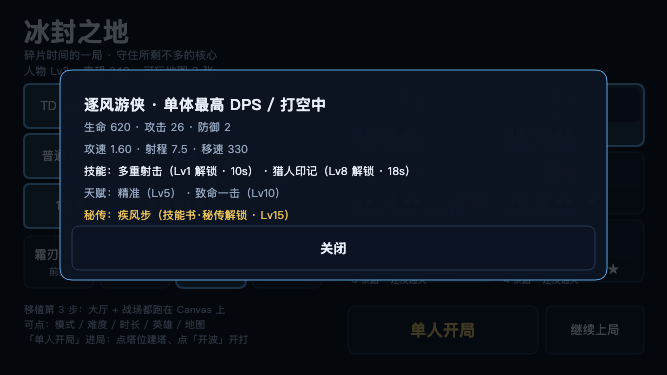
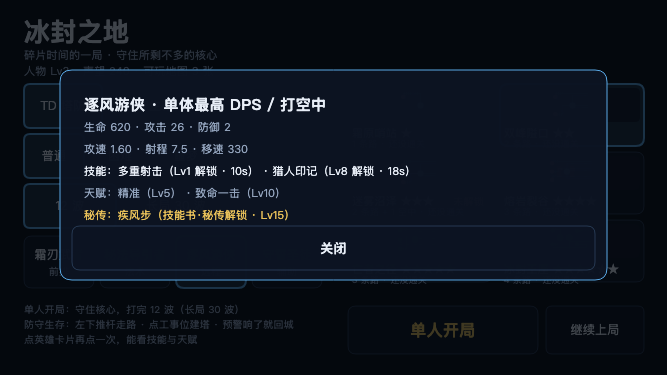
fix(minigame): 出门的文案——清掉「移植第 3 步」与提示里的内部 id
换了个尺子量「玩家会看到什么字」，抓到两处只有自己人看得懂的：

- 大厅提示前两行是开发进度（「移植第 3 步：大厅 + 战场都跑在 Canvas 上」「可点：模式/难度/…」），
  换成三行玩法提示（12 波 / 防守怎么玩 / 英雄卡片看详情）；开始按钮上残留的「（第 4 步接入）」也去掉
  （canStart 这道闸留着，文案中性）
- 提示里出现内部 id：「建了 tw_arrow」「优先级：front」→「建了 箭塔」「优先级：最靠前」
  （名字都从 TOWERS / PRIORITY_LABEL / FORTS 取，与面板按钮同一份）

有意思的是：有一条旧用例正好钉着错的字（它断言大厅要出现「第 4 步」，那是当初没接上时的诚实写法），
接上之后没跟着改，反而把开发进度钉在界面上——这条现在掉头成「整帧不许出现开发进度文案」。
用例 +1（提示文案与 id 白名单）与 1 条掉头；两条变异反证。
npm test 332 → 333；minigame 6 条全过；主包 18 模块 / 395.0 KB。

Changed region(s): [[0.03, 0.792, 0.4498, 0.9387]]

diff --git a/src/minigame/game.js b/src/minigame/game.js
@@ -4,7 +4,7 @@
 // `index.html` + `styles.css` + `ui.js` 那套 DOM+CSS。这一步做的是把**平台差异**与**打包**解决掉，
 // 并把不依赖 DOM 的那一大半（内核、数据表、存档、联机协议、平台适配）先在小游戏里跑通。
 // 界面换 Canvas 是第 3 步，见 docs/minigame-port.md。
-import { DEFENSE_MAPS, MAPS, TICK_STEP, WAVES, normalizeChoice } from '../data.js';
+import { DEFENSE_MAPS, FORTS, MAPS, TICK_STEP, TOWERS, WAVES, normalizeChoice } from '../data.js';
 import {
   buildTower, buyItem, castSkill, craftEquipment, createMatch, describe as describeMatch, equipItem,
   enhanceItem, potionCount, repairTower, reviveNow, sellItem, sellTower, setPriority, skillLevel,
@@ -35,7 +35,7 @@ import {
 } from './defense-screen.js';
 import { applyLobbyAction, drawLobby, hitTestLobby, layoutLobby } from './lobby.js';
 import {
-  DESIGN, drawBattleHud, drawResult, drawSheet, hitTestBattle, hitTestSheet,
+  DESIGN, PRIORITY_LABEL, drawBattleHud, drawResult, drawSheet, hitTestBattle, hitTestSheet,
   layoutBattle, layoutResult, layoutSheet, skillKeys,
 } from './battle.js';
 
@@ -457,7 +457,8 @@ export function startMinigame({ requestAnimationFrame: raf = globalThis.requestA
       case 'build': {
         const ok = buildTower(b.m, action.slot, action.towerId, 0);
         if (ok) b.tutorial?.onTowerBuilt(b.m.time);   // 引导第一步/第二步靠「真的建了塔」推进
-        note(b, ok ? `建了 ${action.towerId}` : '金币不足或这里不能建');
+        // 提示里写**玩家认得的名字**，不是 `tw_arrow` 这种内部 id（出门的版本里不该出现 id）
+        note(b, ok ? `建了 ${TOWERS[action.towerId]?.name ?? '塔'}` : '金币不足或这里不能建');
         if (ok) b.ui = { selectedSlot: null, panelSlot: action.slot, sellArmed: false };
         return action;
       }
@@ -476,7 +477,7 @@ export function startMinigame({ requestAnimationFrame: raf = globalThis.requestA
       }
       case 'priority': {
         const ok = setPriority(b.m, action.slot, action.value);
-        note(b, ok ? `优先级：${action.value}` : '设置失败');
+        note(b, ok ? `优先级：${PRIORITY_LABEL[action.value] ?? action.value}` : '设置失败');
         return action;
       }
       case 'repair': {
@@ -508,7 +509,8 @@ export function startMinigame({ requestAnimationFrame: raf = globalThis.requestA
       case 'buildFort': {
         const slot = b.fortSlot;
         const ok = slot == null ? false : buildFort(b.m, slot, action.fortId);
-        note(b, ok ? '工事已建' : (slot == null ? '先在战场上点一个工事位（‘修’字）' : '金币不足或这里已经建过'), 2);
+        note(b, ok ? `建了 ${FORTS[action.fortId]?.name ?? '工事'}`
+          : (slot == null ? '先在战场上点一个工事位（‘修’字）' : '金币不足或这里已经建过'), 2);
         if (ok) b.fortSlot = null;
         if (ok || slot == null) b.ui = { selectedSlot: null, panelSlot: null, sellArmed: false };
         return action;

diff --git a/src/minigame/lobby.js b/src/minigame/lobby.js
@@ -117,7 +117,9 @@ export function layoutLobby(w, h, model = {}) {
   // 有存档时右边再挤一个「继续上局」（§10.3：杀进程重开进度不丢）——两个都 ≥44 高
   const startW = model.canContinue ? 190 : 296;
   raw.push(btn('start', 348, 306, startW, 48,
-    model.canStart ? '单人开局' : '单人开局（第 4 步接入）', { type: 'start' }, { disabled: !model.canStart }));
+    // 按钮上**不写开发进度**（「第 4 步接入」那种）：出门的版本里玩家只该看到玩法本身。
+    // `canStart` 这个闸还留着（未来哪个模式没接好时灰掉它），但文案是中性的。
+    '单人开局', { type: 'start' }, { disabled: !model.canStart }));
   if (model.canContinue) {
     raw.push(btn('continue', 546, 306, 98, 48, model.continueLabel ?? '继续上局', { type: 'continue' }));
   }
@@ -185,9 +187,13 @@ const text = (ctx, str, x, y, { size = 12, color = COLORS.ink, weight = '', alig
 };
 
 export const DEFAULT_HINT = [
-  '移植第 3 步：大厅 + 战场都跑在 Canvas 上',
-  '可点：模式 / 难度 / 时长 / 英雄 / 地图',
-  '「单人开局」进局：点塔位建塔、点「开波」开打',
+  /**
+   * 这三行是**给玩家看的**，不是开发进度（原先第一行写着「移植第 3 步」，那是我们自己看的）。
+   * 每行都要放得下大厅那个提示框（316 宽 / 10px → 约 31 个汉字，有用例盯着别溢出）。
+   */
+  '单人开局：守住核心，打完 12 波（长局 30 波）',
+  '防守生存：左下推杆走路 · 点工事位建塔 · 预警响了就回城',
+  '点英雄卡片再点一次，能看技能与天赋',
 ];
 
 /** 画一帧（纯绘制，不改模型） */
@@ -336,7 +342,8 @@ export function applyLobbyAction(model, action, { unlocked = [], lockedReason = 
     }
     case 'start': {
       if (!next.canStart) {
-        next.hint = '战斗场景还没接上：内核已经能在小游戏里跑，渲染还没挂上去。';
+        // 中性文案（这扇门现在不会关：两种模式都接了；留着是给未来没接好的模式用）
+        next.hint = '这个模式现在开不了，先玩另一个。';
         return next;
       }
       next.started = true;

diff --git a/docs/STATUS.md b/docs/STATUS.md
@@ -21,7 +21,7 @@
 ## 2. 一条命令复跑全部验证
 
 ```bash
-npm test        # 332 项：数值 / 波次 / 经济 / 装备 / 天赋 / 技能细节 / 存档 / 联机 / 快速匹配 / 触觉反馈 / 摇杆指令 / 溅射衰减 / 药品计数 / 解锁来源与流水 / 野外区分区 / 亚格渲染 / 克制提示 / 局内资源不外流 / 仇恨 1 秒 / 野外区文案 / 战绩分模式 / 面板可见性 / 浮层收起 / 房间码提示 / 空房保留窗口 / 联机指令出口（handler 逐个查）/ 畸形指令与限速 / 克制表与枚举对齐 / 联机镜像不落本地存档（§113） / 大厅按模式给选项（§115：防守没有「局内时长」） / 低特效档真的关脉冲（§116） / 怪物光环按半径结算（§117） / Boss 光环按地图开关（§118） / 逻辑帧步长只有一个定义（§119） / 协议版本两侧校验（§120） / 畸形 URL 参数不崩服务端（§121） / 别人的名字不执行（§122） / 名字长度截断（§122） / 畸形指令值不崩服务端（§123） / 房间码不可枚举（§124） / 名单不广播 uid（§125） / 调试钩子默认关（§126）与「只在本地生效」（§197）/  免费期无付费入口（§128） / 联机结算面板也写「声望 +N」（§130） / 通关转无尽的出口（§131） / 精研技能书真的 +1 级（§132） / 狂战药剂真的持续 30 秒（§133） / 防守模式 buff 生效与疾风步移速（§134） / 两模式英雄 tick 职责对齐（§135） / 亡语分裂在防守里也生效（§136） / 防守的怪也吃减速眩晕 DoT（§137） / 防守内容不许带未实现能力（§138） / 「继续上局」只在**真读得出来**时出现（§139 + §204） /  **疾行药剂在两个模式都生效（§144） / **回城冷却进存档且真的走满 30 秒（§147） / **联机修塔真的生效、TD 专属指令在防守房被拒（§148） / **联机结算的伤害占比不为空、防守占比条写中文名（§149） / **结算面板的掉落栏写中文名（§151） / **快速匹配排队时写明「在等」（§152） / **新手引导的门槛与「重看」（§153） / **文案里的数字与数据表对账（§155） / ****临时端口串门与僵尸根因（§157）** / **4★-6★ 图能从大厅选到（§158） / **真机视口下大厅动作行粘底（§159） / **结算面板出口也粘底（§160） / **真机视口下防守 HUD 紧凑排布（§161） / **真机视口下引导条不压操作行（§162） / **联机长局镜像换成 30 波表（§163）/**§130 偶发红改成确定性（§164） / **联机怪物血条分母（§165）** / **联机房英雄职业进配置（§166）** / **浸泡不变量补五项（§167） / **真机视口下防守人体工学（§168）** / **§2.2 地图表逐列对账（§169） / **其余五张数值表逐列对账（§170） / **真机上的双指缩放与双击回核心（§171） / **把量出的偏差写回设计文档（§172） / **复跑三张数字表（§173） / **协议消息类型两边都要有人用（§174） / **零读者的导出扫干净（§175）** / **用到的 class 都有样式规则（§176）** / **客户端开局参数归一化（§177：坏 URL 不白屏 + 不污染档案）** / **缺 seed 的房间不再是常数种子（§177）** / **提示音在真机手势里解锁、日志不再谎报（§178）** / **真机手势卫生：连点技能键/长按不再被浏览器抢走（§180）** / **HUD 按安全区收边、不再压进刘海（§181）** / **冒烟的 CDP 请求加上限、不再偶发挂死（§182）** / **存不了档时说一声（§183）** / **大厅里不再偷偷打那一局（§184：不跑模拟、不出怪、不记档）** / **竖屏兜底「请横屏」（§185）**…
+npm test        # 333 项：数值 / 波次 / 经济 / 装备 / 天赋 / 技能细节 / 存档 / 联机 / 快速匹配 / 触觉反馈 / 摇杆指令 / 溅射衰减 / 药品计数 / 解锁来源与流水 / 野外区分区 / 亚格渲染 / 克制提示 / 局内资源不外流 / 仇恨 1 秒 / 野外区文案 / 战绩分模式 / 面板可见性 / 浮层收起 / 房间码提示 / 空房保留窗口 / 联机指令出口（handler 逐个查）/ 畸形指令与限速 / 克制表与枚举对齐 / 联机镜像不落本地存档（§113） / 大厅按模式给选项（§115：防守没有「局内时长」） / 低特效档真的关脉冲（§116） / 怪物光环按半径结算（§117） / Boss 光环按地图开关（§118） / 逻辑帧步长只有一个定义（§119） / 协议版本两侧校验（§120） / 畸形 URL 参数不崩服务端（§121） / 别人的名字不执行（§122） / 名字长度截断（§122） / 畸形指令值不崩服务端（§123） / 房间码不可枚举（§124） / 名单不广播 uid（§125） / 调试钩子默认关（§126）与「只在本地生效」（§197）/  免费期无付费入口（§128） / 联机结算面板也写「声望 +N」（§130） / 通关转无尽的出口（§131） / 精研技能书真的 +1 级（§132） / 狂战药剂真的持续 30 秒（§133） / 防守模式 buff 生效与疾风步移速（§134） / 两模式英雄 tick 职责对齐（§135） / 亡语分裂在防守里也生效（§136） / 防守的怪也吃减速眩晕 DoT（§137） / 防守内容不许带未实现能力（§138） / 「继续上局」只在**真读得出来**时出现（§139 + §204） /  **疾行药剂在两个模式都生效（§144） / **回城冷却进存档且真的走满 30 秒（§147） / **联机修塔真的生效、TD 专属指令在防守房被拒（§148） / **联机结算的伤害占比不为空、防守占比条写中文名（§149） / **结算面板的掉落栏写中文名（§151） / **快速匹配排队时写明「在等」（§152） / **新手引导的门槛与「重看」（§153） / **文案里的数字与数据表对账（§155） / ****临时端口串门与僵尸根因（§157）** / **4★-6★ 图能从大厅选到（§158） / **真机视口下大厅动作行粘底（§159） / **结算面板出口也粘底（§160） / **真机视口下防守 HUD 紧凑排布（§161） / **真机视口下引导条不压操作行（§162） / **联机长局镜像换成 30 波表（§163）/**§130 偶发红改成确定性（§164） / **联机怪物血条分母（§165）** / **联机房英雄职业进配置（§166）** / **浸泡不变量补五项（§167） / **真机视口下防守人体工学（§168）** / **§2.2 地图表逐列对账（§169） / **其余五张数值表逐列对账（§170） / **真机上的双指缩放与双击回核心（§171） / **把量出的偏差写回设计文档（§172） / **复跑三张数字表（§173） / **协议消息类型两边都要有人用（§174） / **零读者的导出扫干净（§175）** / **用到的 class 都有样式规则（§176）** / **客户端开局参数归一化（§177：坏 URL 不白屏 + 不污染档案）** / **缺 seed 的房间不再是常数种子（§177）** / **提示音在真机手势里解锁、日志不再谎报（§178）** / **真机手势卫生：连点技能键/长按不再被浏览器抢走（§180）** / **HUD 按安全区收边、不再压进刘海（§181）** / **冒烟的 CDP 请求加上限、不再偶发挂死（§182）** / **存不了档时说一声（§183）** / **大厅里不再偷偷打那一局（§184：不跑模拟、不出怪、不记档）** / **竖屏兜底「请横屏」（§185）**…
 npm run soak    # 180 局全组合浸泡：运行期不变量 + 存档不动点 + 客户端镜像一致性
 npm run smoke   # 378 条真浏览器断言（**三个视口**、十一个面；含快速匹配、内存告警降级、真按下的短震动链路、防守摇杆拖动、点空地的塔位提示、克制提示与护甲预告、野外区掉落加成、防守战绩口径、日志面板让位/恢复、跨局浮层收起、攻城图的修塔按钮、秘传技能书的技能栏变化、优先级/速度/围墙/重置进度、HUD 数值跟随（7+3 处）、塔面板 X 与标题、再开一局、长局 30 波 HUD、真机视口下的轮盘/塔面板、房间码提示与镜像对齐、进不去房间转单人继续、被动掉线自动重连、**六条联机指令真的到服务端**、**§113 联机点「回大厅/再开一局」真的离房**、**§114 联机不假装暂停/加速、掉线写清 5 分钟**/**§115 防守模式不摆「局内时长」假选项**/**§116 低特效档真的关脉冲**/**§145 每次版式体检都查「两块 HUD 浮层不许叠在一起」**/**§153 新手引导门槛与「重看」（§153）/**设置面板按模式取舍选项（§154）/**文案里的数字与数据表对账（§155）**/**临时端口串门与僵尸根因（§157）/**4★-6★ 图能从大厅选到（§158）/**真机视口下大厅动作行粘底（§159）/**结算面板出口也粘底（§160）**/**真机视口下防守 HUD 紧凑排布（§161）**/**真机视口下引导条不压操作行（§162）/**联机长局镜像换成 30 波表（§163）/**§130 偶发红改成确定性（§164）/**联机怪物血条分母（§165）**/**联机房英雄职业进配置（§166）**/**浸泡不变量补五项（§167）/**真机视口下防守人体工学（§168）**/**§2.2 地图表逐列对账（§169）/**其余五张数值表逐列对账（§170）/**真机上的双指缩放与双击回核心（§171）**/**客户端坏 URL 不白屏（§177）**/**提示音在真机策略下真的响了（§178）**/**真机手势卫生（§180）**/**HUD 不进刘海安全区（§181）**/**大厅不跑模拟（§184）**/**竖屏有「请横屏」兜底（§185）**/**低端 4G 模拟下首屏 ≤3 秒（§186）** / **「再开一局」连打的第二局也记档（§188）** / **浏览器里真的把 12 波打完、结算与档案都对（§189）** / **防守也真的守满 4 轮；城堡陷落后「继续（无尽）」不再挂着（§190）** / **长局 30 波也在浏览器里真的打完（§191，含一条参考打法在 4★ 长局末波输掉的观测）** / **中途加入已在打的房（§192）** / **§130 那条「声望 +N」的偶发红改成确定性（§193：根因是房间空着时就记了结算）** / **`sim` 调试钩子只在本地生效（§197：补上 §126 那条「非 URL 开关」的规矩）** / **连打不涨：6 局 DOM/堆都平，并把「每局不长 DOM」钉进冒烟（§198）** / **服务端不再攒退役房间（§199：删掉只写不读的 `stopped` 表）** / **画布内容与「画面在动」也有检查了（§200–§202）** / **第三个视口 568×320（§203）** / **「能读的才算有存档」补齐后半（§204）** / **档案形状归一化（§205）** / **日志面板的 innerHTML 先转义（§206：那一处最容易新增玩家名字）**
 npm run waves   # §8.5 逐波余量（4 人基准）
@@ -194,7 +194,7 @@ npm run bench / bandwidth   # 容量 / 带宽预算（§110/§111：两个工具
 |---|---|---|---|
 | 1 | **按 `game-design.md` 的已确认需求开发** | ✅ | 设计文档里**打勾的验收清单**逐条有实现与检查（见 §1 那张表）；**所有数值表逐列对过账**（§169/§170，改一处就红）；**原「等拍板」的 33 条已全部拍板并落地**（§3.1 + 验证记录 §207–§209；文档类的 20 条在附录 B/C 与对应小节补了口径） |
 | 2 | **一直开发到能玩为止** | ✅ | 浏览器里**真的**跑通过整条链路：TD 短局通关（§189：7.4 分钟、结算面板、记档、解锁 map_02）、防守守满 4 轮转无尽（§190）、**长局 30 波**（§191：32.5 分钟）；联机建房 / 快速匹配 / 中途加入第 3 波（§192）/ 掉线重连 / 离场（§102/§113/§114）；三个视口（1334×750 / 667×375 / **568×320**）的版式与人体工学（§203、§145）；手机竖屏有「请横屏」兜底（§185） |
-| 3 | **自己去验证错误** | ✅ | 验证记录 **§1–§245**：每条发现都带「一个能失败的检查」+ 变异反证；最新一轮全量复跑：`npm test` **332 项** · `npm run smoke` **378 条**（三个视口、十一个面）· `soak` 180 局（119 胜 61 负，不变量一条没破）· `matrix` 全绿（**并检查首发三图普通档 8-12 分钟**）· `defense` 12.7 分钟/4 轮 · `waves` 12/12 · `defense-matrix` 36 局守住 22（**验收线 8 格全过**）· `bandwidth` 6.61 KB/s（预算 15）· `bench` 1699k 实体·帧/秒 · `tutorial` 3/3 达标 |
+| 3 | **自己去验证错误** | ✅ | 验证记录 **§1–§246**：每条发现都带「一个能失败的检查」+ 变异反证；最新一轮全量复跑：`npm test` **333 项** · `npm run smoke` **378 条**（三个视口、十一个面）· `soak` 180 局（119 胜 61 负，不变量一条没破）· `matrix` 全绿（**并检查首发三图普通档 8-12 分钟**）· `defense` 12.7 分钟/4 轮 · `waves` 12/12 · `defense-matrix` 36 局守住 22（**验收线 8 格全过**）· `bandwidth` 6.61 KB/s（预算 15）· `bench` 1699k 实体·帧/秒 · `tutorial` 3/3 达标 |
 
 **仍然在别人手里的（不是欠债，是等输入）**：
 

diff --git a/README.md b/README.md
@@ -12,7 +12,7 @@
 M0.5 可玩原型（TD 塔防首发切片）：等距伪 3D 横屏战场、12 波、4 种塔各 3 级、4 英雄（含 2 主动技 + 技能书解锁第 3 技）、9 种怪物、装备掉落与一键合成、商店与药品、暂停与加速。
 
 ```bash
-npm test        # 332 项（含小游戏打包产物的检查）：数值 / 波次 / 经济 / 人数缩放（§1.6：怪量·生命·金币，联机房按名册定档）/ 地形（§2.3：岩浆挡弹道、沼泽减速与射程 −1、高地射程 +1.5 攻击 +10%）/ 难度四列（§2.4：生命·攻击·出怪速度·掉落）/ 局外人物等级（初始金币 + 复活加速）/ 武器 4 类（单体/群伤/减速/对空，特性真的生效）· 装备（主属性与词条真的进战斗 · 强化 +1..+5 · 自由换装 · 出售返还）/ DPS 线（裸装 ≤2.5 座塔 + **满装 ≤4 座**，§3.1 #3）/ 掉落节奏（含橙装来源拆账）/ 概率上限与闪避 / 容错率 / 整局 / 天赋接线（钢铁意志·咒术精通·法力涌动）/ 技能细节（制裁之锤对 Boss 眩晕减半、猎人印记加成英雄普攻）/ 商店（3 格背包·波次中读条 3 秒·回城卷轴·**防守商店只在基地内**〔§3.1 #14〕·群疗符禁售〔#20〕）/ 指令表双向对齐（含 **`leave`**）/ 主动退房与掉线的区别（§3.1 #23）/ 设备级 token：冒用 uid 被拒 + 本机换身份重连（§3.1 #24）/ **深链进锁着的图按档案归一化**（§3.1 #29）/ 中途加入窗口（§12.3）/ 快速匹配（§1.5：分桶·满员即开·45 秒窗口）/ 攻击优先级（§8.3 四种模式）/ 克制提示（§3.8·§6.2：提示由克制表算出）/ 克制表与枚举对齐（§6.2）/ 实体传送点（§2.6）/ 上次配置一键开局（§2.1） / 局内资源不外流（§12.6）/ 战绩分模式（§12.6：TD 最快通关 / 防守守住轮次）/ 仇恨 1 秒窗口（§7.7：脱离后还要被追打 1 秒）/ 野外区文案（§2.6：区名 + 等级段 + 掉落加成）/ 面板可见性（§14.3：日志让位由 CSS 表达）/ 跨局浮层收起（§95：开新局前收掉轮盘与塔面板）/ 房间码没命中的提示与房间配置对齐（§1.5 / §102）/ 空房保留 5 分钟边界（§10.3）/ 联机指令出口（§10.1：键盘与按钮同一条路，且每个 handler 都有 net 分支）/ 畸形指令与限速（§12.7 / §108）/ 防守摇杆指令（§1.9.1·§10.1：目标格算法 + 贴墙退化）/ 溅射距离衰减（§7.1：落点 100% → 边缘 50%）/ 野外区分区掉落（§2.6·§12.8：dropBonus）/ 解锁来源与货币流水（§1.7.3）/ 亚格渲染（§10.3：怪与人物按 dist/carry 画，不再跳格）/ 快照序号与补发（§10.3 序号跳跃 → 请求全量） / 渲染（相机·小地图·地图缩略图）/ HUD / 联机 / 带宽 / 重连 / 存档 / 解锁 / 队伍色 / 预测 / 性能护栏 / 不卡死（每局都必须能结束）/ 复活保护 / 触觉反馈 / 药品计数（§5.5） / 联机镜像不落本地存档（§113） / 大厅按模式给选项（§115：防守没有「局内时长」） / 低特效档真的关脉冲（§116） / 怪物光环按半径结算（§117） / Boss 光环按地图开关（§118） / 逻辑帧步长只有一个定义（§119） / 协议版本两侧校验（§120） / 畸形 URL 参数不崩服务端（§121） / 别人的名字不执行（§122） / 名字长度截断（§122） / 畸形指令值不崩服务端（§123） / 房间码不可枚举（§124） / 名单不广播 uid（§125） / 调试钩子默认关（§126） / 免费期无付费入口（§128） / 联机结算面板也写「声望 +N」（§130） / 通关转无尽的出口（§131） / 精研技能书真的 +1 级（§132） / 狂战药剂真的持续 30 秒（§133） / 防守模式 buff 生效与疾风步移速（§134） / 两模式英雄 tick 职责对齐（§135） / 亡语分裂在防守里也生效（§136） / 防守的怪也吃减速眩晕 DoT（§137） / 防守内容不许带未实现能力（§138） / **疾行药剂在两个模式都生效（§144）** / **回城冷却进存档且真的走满 30 秒（§147）** / **联机修塔真的生效、TD 专属指令在防守房被拒（§148） / **联机结算的伤害占比不为空、防守占比条写中文名（§149） / **结算面板的掉落栏写中文名（§151） / **快速匹配排队时写明「在等」（§152） / **新手引导的门槛与「重看」（§153）** / **设置面板按模式取舍选项（§154）** / **文案里的数字与数据表对账（§155） / ****临时端口串门与僵尸 npm test 的根因（§157）** / **4★-6★ 图能从大厅选到（§158） / **真机视口下大厅动作行粘底（§159） / **结算面板出口也粘底（§160） / **真机视口下防守 HUD 换紧凑排布（§161） / **真机视口下引导条不压操作行（§162） / **联机长局的镜像换成 30 波表（§163） / **§130 偶发红改成确定性（§164） / **联机怪物血条的分母由服务端给（§165） / **联机房的英雄职业也进配置（§166） / **浸泡的不变量补五项（§167） / **真机视口下防守人体工学也量了（§168） / **§2.2 地图表逐列对账（§169） / **其余五张数值表逐列对账（§170） / **真机上的双指缩放与双击回核心（§171） / **把量出的偏差写回设计文档（§172） / **复跑三张数字表（§173） / **协议消息类型两边都要有人用（§174） / **零读者的导出扫干净（§175）** / **用到的 class 都有样式规则（§176）** / **客户端开局参数归一化：坏 URL 不再白屏、不再污染档案（§177）** / **提示音在真机手势里解锁、日志不再谎报（§178）** / **真机手势卫生：连点技能键不再触发双击缩放（§180）** / **HUD 不再压进刘海（§181：按 `env(safe-area-inset-*)` 收边）** / **存不了档时说一声（§183）** / **大厅里不再偷偷打那一局（§184：不跑模拟、不记档）** / **竖屏兜底「请横屏」（§185）**
+npm test        # 333 项（含小游戏打包产物的检查）：数值 / 波次 / 经济 / 人数缩放（§1.6：怪量·生命·金币，联机房按名册定档）/ 地形（§2.3：岩浆挡弹道、沼泽减速与射程 −1、高地射程 +1.5 攻击 +10%）/ 难度四列（§2.4：生命·攻击·出怪速度·掉落）/ 局外人物等级（初始金币 + 复活加速）/ 武器 4 类（单体/群伤/减速/对空，特性真的生效）· 装备（主属性与词条真的进战斗 · 强化 +1..+5 · 自由换装 · 出售返还）/ DPS 线（裸装 ≤2.5 座塔 + **满装 ≤4 座**，§3.1 #3）/ 掉落节奏（含橙装来源拆账）/ 概率上限与闪避 / 容错率 / 整局 / 天赋接线（钢铁意志·咒术精通·法力涌动）/ 技能细节（制裁之锤对 Boss 眩晕减半、猎人印记加成英雄普攻）/ 商店（3 格背包·波次中读条 3 秒·回城卷轴·**防守商店只在基地内**〔§3.1 #14〕·群疗符禁售〔#20〕）/ 指令表双向对齐（含 **`leave`**）/ 主动退房与掉线的区别（§3.1 #23）/ 设备级 token：冒用 uid 被拒 + 本机换身份重连（§3.1 #24）/ **深链进锁着的图按档案归一化**（§3.1 #29）/ 中途加入窗口（§12.3）/ 快速匹配（§1.5：分桶·满员即开·45 秒窗口）/ 攻击优先级（§8.3 四种模式）/ 克制提示（§3.8·§6.2：提示由克制表算出）/ 克制表与枚举对齐（§6.2）/ 实体传送点（§2.6）/ 上次配置一键开局（§2.1） / 局内资源不外流（§12.6）/ 战绩分模式（§12.6：TD 最快通关 / 防守守住轮次）/ 仇恨 1 秒窗口（§7.7：脱离后还要被追打 1 秒）/ 野外区文案（§2.6：区名 + 等级段 + 掉落加成）/ 面板可见性（§14.3：日志让位由 CSS 表达）/ 跨局浮层收起（§95：开新局前收掉轮盘与塔面板）/ 房间码没命中的提示与房间配置对齐（§1.5 / §102）/ 空房保留 5 分钟边界（§10.3）/ 联机指令出口（§10.1：键盘与按钮同一条路，且每个 handler 都有 net 分支）/ 畸形指令与限速（§12.7 / §108）/ 防守摇杆指令（§1.9.1·§10.1：目标格算法 + 贴墙退化）/ 溅射距离衰减（§7.1：落点 100% → 边缘 50%）/ 野外区分区掉落（§2.6·§12.8：dropBonus）/ 解锁来源与货币流水（§1.7.3）/ 亚格渲染（§10.3：怪与人物按 dist/carry 画，不再跳格）/ 快照序号与补发（§10.3 序号跳跃 → 请求全量） / 渲染（相机·小地图·地图缩略图）/ HUD / 联机 / 带宽 / 重连 / 存档 / 解锁 / 队伍色 / 预测 / 性能护栏 / 不卡死（每局都必须能结束）/ 复活保护 / 触觉反馈 / 药品计数（§5.5） / 联机镜像不落本地存档（§113） / 大厅按模式给选项（§115：防守没有「局内时长」） / 低特效档真的关脉冲（§116） / 怪物光环按半径结算（§117） / Boss 光环按地图开关（§118） / 逻辑帧步长只有一个定义（§119） / 协议版本两侧校验（§120） / 畸形 URL 参数不崩服务端（§121） / 别人的名字不执行（§122） / 名字长度截断（§122） / 畸形指令值不崩服务端（§123） / 房间码不可枚举（§124） / 名单不广播 uid（§125） / 调试钩子默认关（§126） / 免费期无付费入口（§128） / 联机结算面板也写「声望 +N」（§130） / 通关转无尽的出口（§131） / 精研技能书真的 +1 级（§132） / 狂战药剂真的持续 30 秒（§133） / 防守模式 buff 生效与疾风步移速（§134） / 两模式英雄 tick 职责对齐（§135） / 亡语分裂在防守里也生效（§136） / 防守的怪也吃减速眩晕 DoT（§137） / 防守内容不许带未实现能力（§138） / **疾行药剂在两个模式都生效（§144）** / **回城冷却进存档且真的走满 30 秒（§147）** / **联机修塔真的生效、TD 专属指令在防守房被拒（§148） / **联机结算的伤害占比不为空、防守占比条写中文名（§149） / **结算面板的掉落栏写中文名（§151） / **快速匹配排队时写明「在等」（§152） / **新手引导的门槛与「重看」（§153）** / **设置面板按模式取舍选项（§154）** / **文案里的数字与数据表对账（§155） / ****临时端口串门与僵尸 npm test 的根因（§157）** / **4★-6★ 图能从大厅选到（§158） / **真机视口下大厅动作行粘底（§159） / **结算面板出口也粘底（§160） / **真机视口下防守 HUD 换紧凑排布（§161） / **真机视口下引导条不压操作行（§162） / **联机长局的镜像换成 30 波表（§163） / **§130 偶发红改成确定性（§164） / **联机怪物血条的分母由服务端给（§165） / **联机房的英雄职业也进配置（§166） / **浸泡的不变量补五项（§167） / **真机视口下防守人体工学也量了（§168） / **§2.2 地图表逐列对账（§169） / **其余五张数值表逐列对账（§170） / **真机上的双指缩放与双击回核心（§171） / **把量出的偏差写回设计文档（§172） / **复跑三张数字表（§173） / **协议消息类型两边都要有人用（§174） / **零读者的导出扫干净（§175）** / **用到的 class 都有样式规则（§176）** / **客户端开局参数归一化：坏 URL 不再白屏、不再污染档案（§177）** / **提示音在真机手势里解锁、日志不再谎报（§178）** / **真机手势卫生：连点技能键不再触发双击缩放（§180）** / **HUD 不再压进刘海（§181：按 `env(safe-area-inset-*)` 收边）** / **存不了档时说一声（§183）** / **大厅里不再偷偷打那一局（§184：不跑模拟、不记档）** / **竖屏兜底「请横屏」（§185）**
 npm run selfplay  # 无头打一整局，打印每波推进与结算（默认 4 人基准；FF_PLAYERS=1 切单人档，§1.6）
 npm run bandwidth # 带宽实测（默认 8 秒，可传秒数）
 npm run bench     # 容量实测（默认 200 实体 × 600 tick；§111 起：过程里场上掉到目标的 90% 以下就 exit 1，不再拿空场的吞吐当结论）

diff --git a/docs/testing/m0.5-td-prototype.md b/docs/testing/m0.5-td-prototype.md
@@ -9773,3 +9773,43 @@ TD 那边钉一句反向断言：「TD 的 HUD 上不该有小地图」（它是
 ### 245.3 数字
 
 `npm test` 331 → **332 项** · `npm run minigame` 6 条全过 · 主包 18 个模块 / 394.2 KB · 浏览器侧一行没动。
+
+## 246. 出门的文案：把「移植第 3 步」和内部 id 清干净
+
+上一轮量的是「数字对不对」，这一轮换了个尺子量「玩家会看到什么字」，抓到两处**只有自己人看得懂**的：
+
+* **大厅提示的前两行是开发进度**：`移植第 3 步：大厅 + 战场都跑在 Canvas 上`、`可点：模式 / 难度 / …`
+  ——那是我们自己的状态注释。换成三行玩法提示；
+* **提示里出现内部 id**：建塔后的提示写着 `建了 tw_arrow`、改优先级写着 `优先级：front`。
+
+有意思的是：**有一条旧用例正好钉着错的字**——它断言大厅里要出现「第 4 步」，
+那是当初「战斗还没接上」时的诚实写法；接上之后它没跟着改，于是反过来把开发进度**钉在了界面上**。
+这次把那条用例掉头：整帧文案里**不许**出现 `第 3 步` / `第 4 步` / `移植` / `还没接`。
+
+### 246.1 改了什么
+
+| 位置 | 以前 | 现在 |
+|---|---|---|
+| 大厅提示第 1 行 | `移植第 3 步：大厅 + 战场都跑在 Canvas 上` | `单人开局：守住核心，打完 12 波（长局 30 波）` |
+| 大厅提示第 2 行 | `可点：模式 / 难度 / 时长 / 英雄 / 地图` | `防守生存：左下推杆走路 · 点工事位建塔 · 预警响了就回城` |
+| 大厅提示第 3 行 | `「单人开局」进局：点塔位建塔、点「开波」开打` | `点英雄卡片再点一次，能看技能与天赋` |
+| 开始按钮（灰态） | `单人开局（第 4 步接入）` | `单人开局`（`canStart` 这道闸留着，文案中性） |
+| 建塔提示 | `建了 tw_arrow` | `建了 箭塔`（名字从 `TOWERS` 取） |
+| 优先级提示 | `优先级：front` | `优先级：最靠前`（`PRIORITY_LABEL`） |
+| 建工事提示 | `工事已建` | `建了 箭塔工事`（`FORTS`） |
+
+### 246.2 检查
+
+① `tests/minigame-lobby.test.js` 那条「画一帧」用例掉头：整帧里不许出现那四个开发词，并断言按钮写「单人开局」；
+② `tests/minigame-battle.test.js` 新增一条：建塔与改优先级的提示必须是中文名，且整帧里不许出现
+`tw_arrow` / `front` 这类 id 与枚举（正则按词边界匹配，避免误伤）。
+
+| 变异 | 结果 |
+|---|---|
+| 建塔提示退回 `建了 ${action.towerId}` | ② 红在「提示要写塔的名字（实际『建了 』）」 |
+| 大厅提示退回开发进度那一行 | ① 红在「大厅里不该出现开发进度文案『第 3 步』」 |
+
+### 246.3 数字
+
+`npm test` 332 → **333 项** · `npm run minigame` 6 条全过 · 主包 18 个模块 / 395.0 KB（4MB 上限的 9.6%）·
+样张重出（大厅那三行提示换了）· 浏览器侧一行没动。
